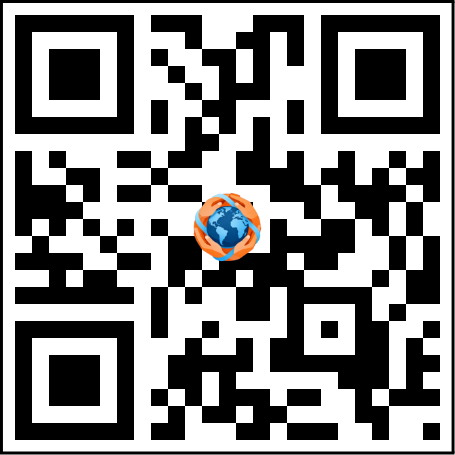
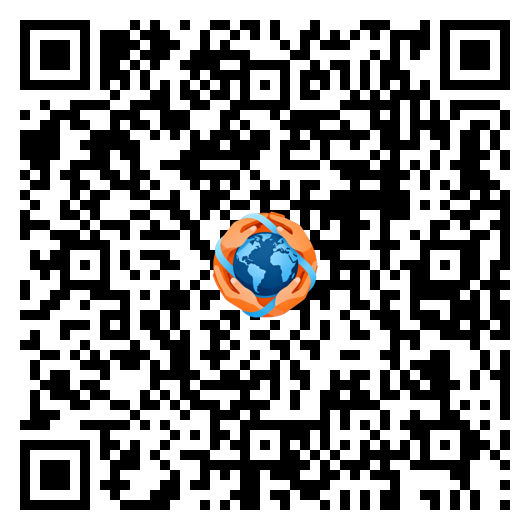
QR Code python fix
In case the user does not have the app installed, he will be redirected to our app page, in this case, github

diff --git a/lib/assets/QRCodeGenerator/qrcode-gen.py b/lib/assets/QRCodeGenerator/qrcode-gen.py
@@ -1,0 +1,71 @@
+import qrcode
+from PIL import Image
+import os
+
+# --- 1. SETUP ---
+# Your Logo Path (Mantido exatamente como enviaste)
+logo_path = r"C:\Users\David Pinheiro\Documents\GitHub\World-Wide-Connect\lib\assets\icon\icon.png"
+save_folder = r"C:\Users\David Pinheiro\Documents\GitHub\World-Wide-Connect\lib\assets\qrcodes"
+
+# Ensure the save folder exists
+os.makedirs(save_folder, exist_ok=True)
+
+# --- AQUI ESTÁ A LÓGICA DO GITHUB ---
+# O link base do teu repositório
+base_url = "https://github.com/DavidPinheiro1/World-Wide-Connect"
+
+# Define your data
+# Agora usamos o URL com um parâmetro '?topic='. 
+# - O telemóvel ignora o '?topic=' e abre o site.
+# - A tua App lê o texto todo, encontra a palavra 'mensa' e abre a página certa.
+qr_data = {
+    "Mensa": f"{base_url}?topic=mensa",
+    "Transportation": f"{base_url}?topic=transport",
+    "Citizenship": f"{base_url}?topic=citizen"
+}
+
+# Load the logo once
+try:
+    logo = Image.open(logo_path)
+except FileNotFoundError:
+    print(f"Error: Could not find logo at {logo_path}")
+    exit()
+
+# --- 2. GENERATION LOOP ---
+for name, link_data in qr_data.items():
+    
+    # Create the QR Code object
+    qr = qrcode.QRCode(
+        version=1,
+        error_correction=qrcode.constants.ERROR_CORRECT_H, # Alto nível de correção para suportar o logo
+        box_size=10,
+        border=2,
+    )
+    
+    # Add data (O URL completo)
+    qr.add_data(link_data)
+    qr.make(fit=True)
+    
+    # Create the QR image (Color formatted to RGB)
+    img_qr = qr.make_image(fill_color="black", back_color="white").convert('RGB')
+    
+    # --- 3. ADD LOGO ---
+    # Resize logo to fit nicely in the center (25% of the QR width)
+    logo_size = int(img_qr.size[0] * 0.25) 
+    logo_resized = logo.resize((logo_size, logo_size))
+    
+    # Calculate position to center the logo
+    pos = ((img_qr.size[0] - logo_resized.size[0]) // 2, 
+           (img_qr.size[1] - logo_resized.size[1]) // 2)
+    
+    # Paste the logo onto the QR code
+    # Mantive a tua lógica de máscara para transparência
+    mask = logo_resized if 'A' in logo.mode else None
+    img_qr.paste(logo_resized, pos, mask)
+    
+    # --- 4. SAVE ---
+    filename = f"{name}.png"
+    full_save_path = os.path.join(save_folder, filename)
+    
+    img_qr.save(full_save_path)
+    print(f"Generated clean QR code: {filename} -> {link_data}")

diff --git a/bibliography.md b/bibliography.md
@@ -1,3 +1,16 @@
+📒 Library needed to generate the QR Code and how to install it:
+https://pypi.org/project/qrcode/
+
+os is already installed with python.
+In case you do not have python installed, run the following in your terminal:
+Windows: sudo apt install python3
+Linux/macOS: brew install python
+
+To install the qrcode library, run in terminal: pip install qrcode[pil]
+
+______________________________________________________________________________________________
+
+
 🚫 Library of bad words:
 https://github.com/LDNOOBW/List-of-Dirty-Naughty-Obscene-and-Otherwise-Bad-Words
 
